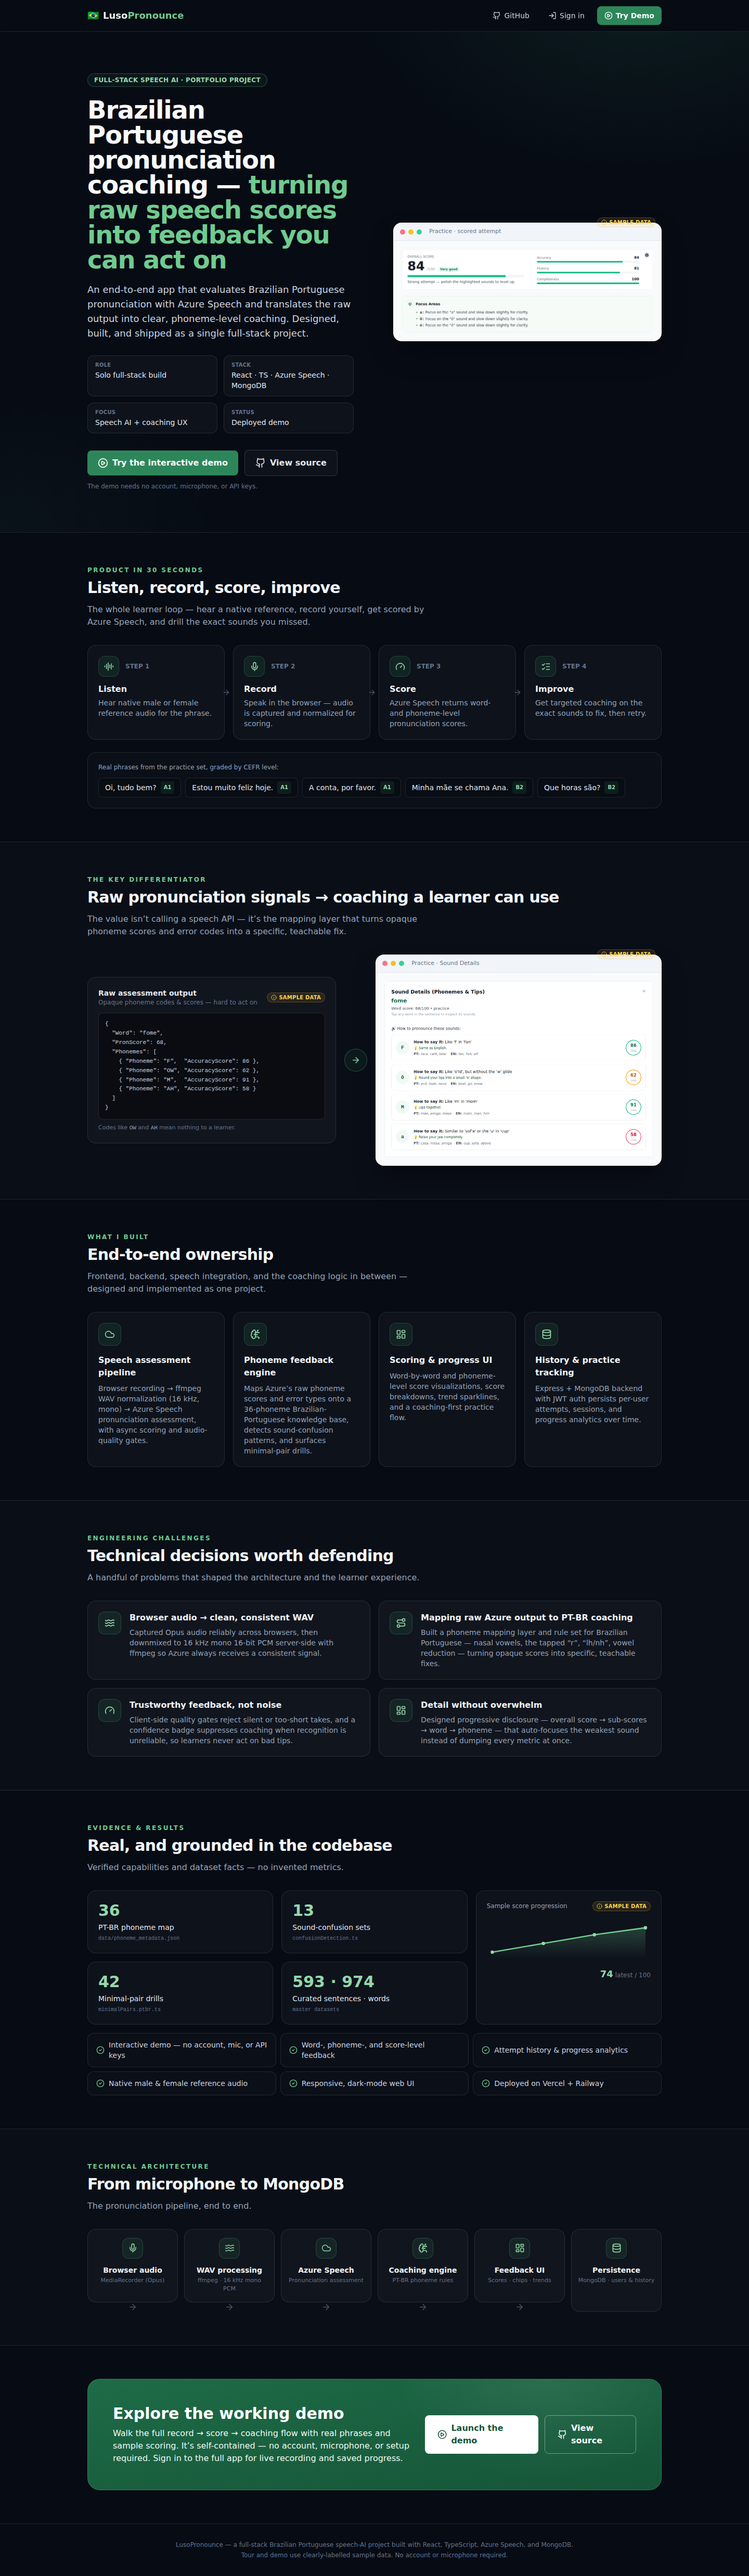
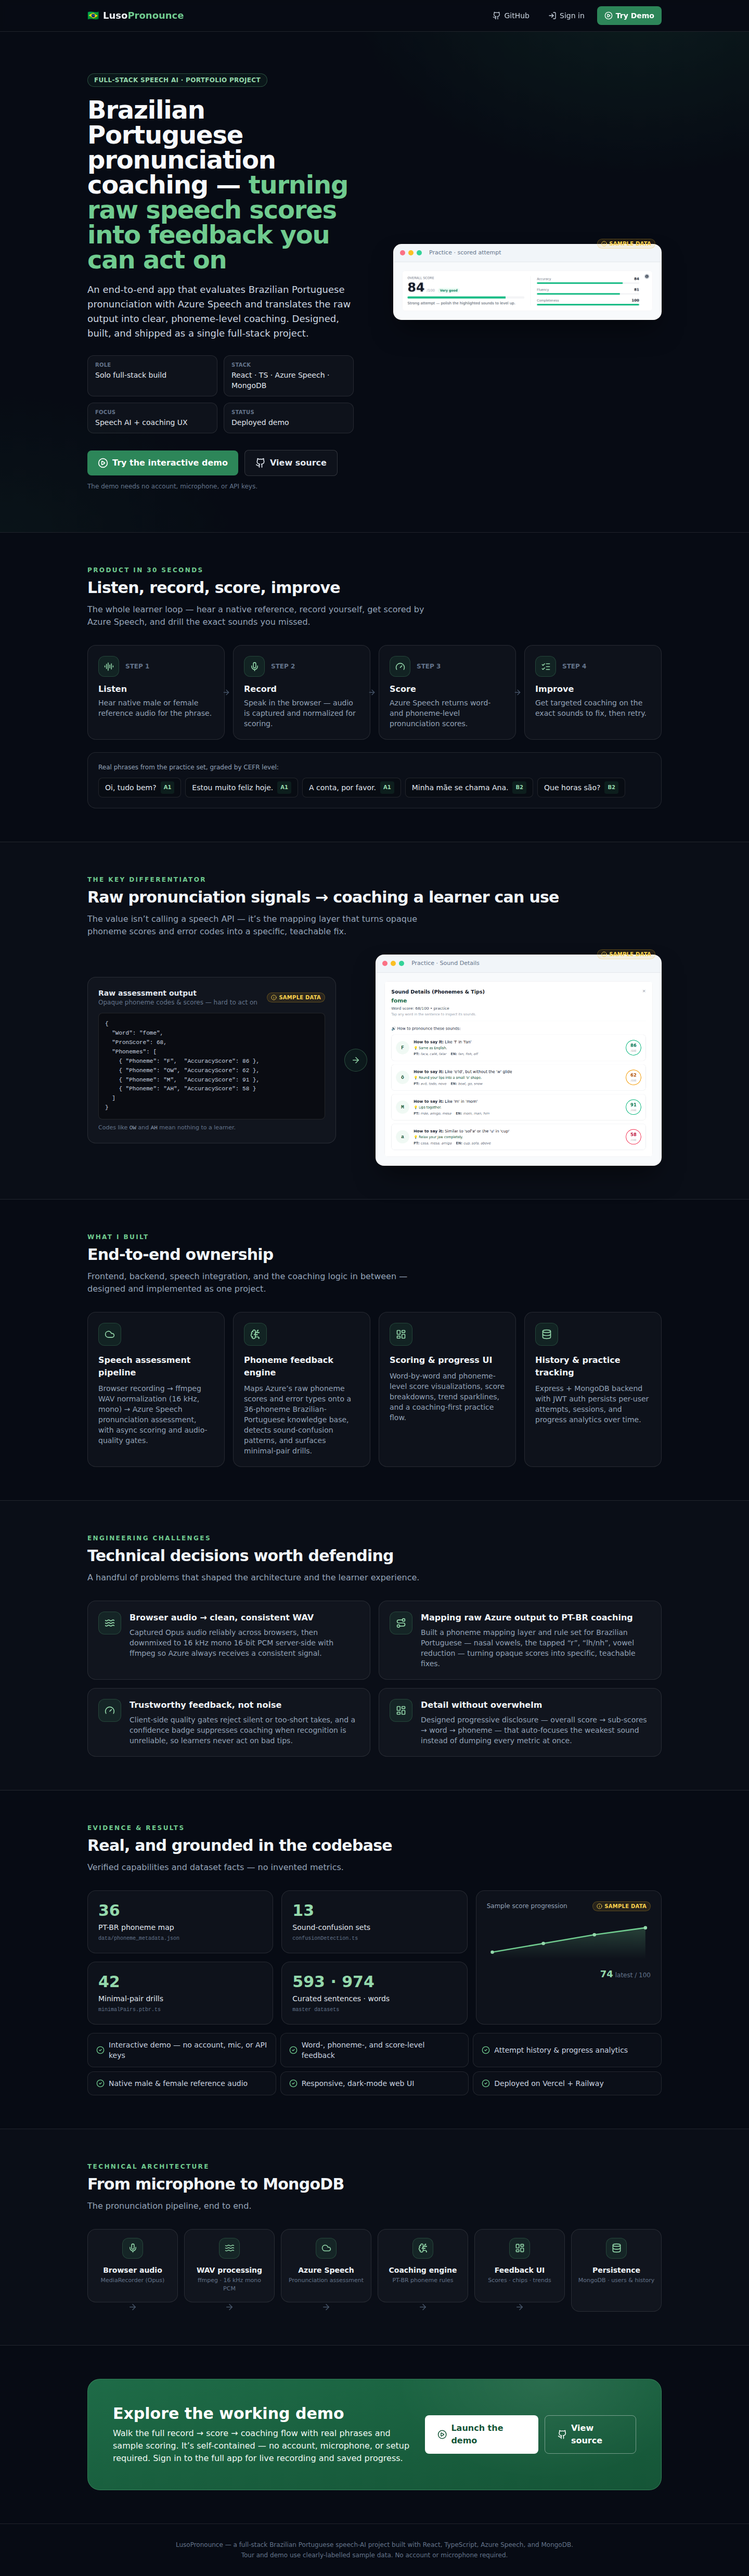
fix(tour): drop repetitive Focus Areas panel from the hero
The Focus Areas card renders the same templated tip for every problem
sound ("Focus on the 'x' sound and slow down slightly for clarity"), so
it added no value in the tour hero. Keep the clean score strip only and
stop capturing the focus-areas screenshot.

Claude-Session: https://claude.ai/code/session_01Eak8CvYNJyHk3gQpAfLSAL

Changed region(s): [[0.5312, 0.0622, 0.875, 0.1555]]

diff --git a/src/pages/tour/TourVisuals.tsx b/src/pages/tour/TourVisuals.tsx
@@ -50,8 +50,8 @@ function AppFrame({
 }
 
 /**
- * Hero visual — the real scored-attempt screen: the score strip and the
- * "Focus Areas" card, captured straight from the practice page.
+ * Hero visual — the real scored-attempt screen: overall score with the
+ * accuracy / fluency / completeness breakdown, captured from the practice page.
  */
 export function ScoredResultShot() {
   return (
@@ -63,12 +63,6 @@ export function ScoredResultShot() {
         <img
           src="/tour/app-scored-result.png"
           alt="Overall pronunciation score of 84 with an accuracy, fluency, and completeness breakdown"
-          className="block w-full rounded-lg"
-          loading="lazy"
-        />
-        <img
-          src="/tour/app-focus-areas.png"
-          alt="Focus Areas listing the specific Brazilian Portuguese sounds to work on next"
           className="block w-full rounded-lg"
           loading="lazy"
         />

diff --git a/e2e/all-pages-screenshots.spec.ts b/e2e/all-pages-screenshots.spec.ts
@@ -555,7 +555,6 @@ test.describe('Full app screenshot tour', () => {
     // populated, authentic assessment result.
     await captureTourShot(page, 'score-strip', 'app-scored-result');
     await captureTourShot(page, 'sound-details-panel', 'app-sound-coaching');
-    await captureTourShot(page, 'focus-areas', 'app-focus-areas');
   });
 
   test('practice — words', async ({ page }) => {
